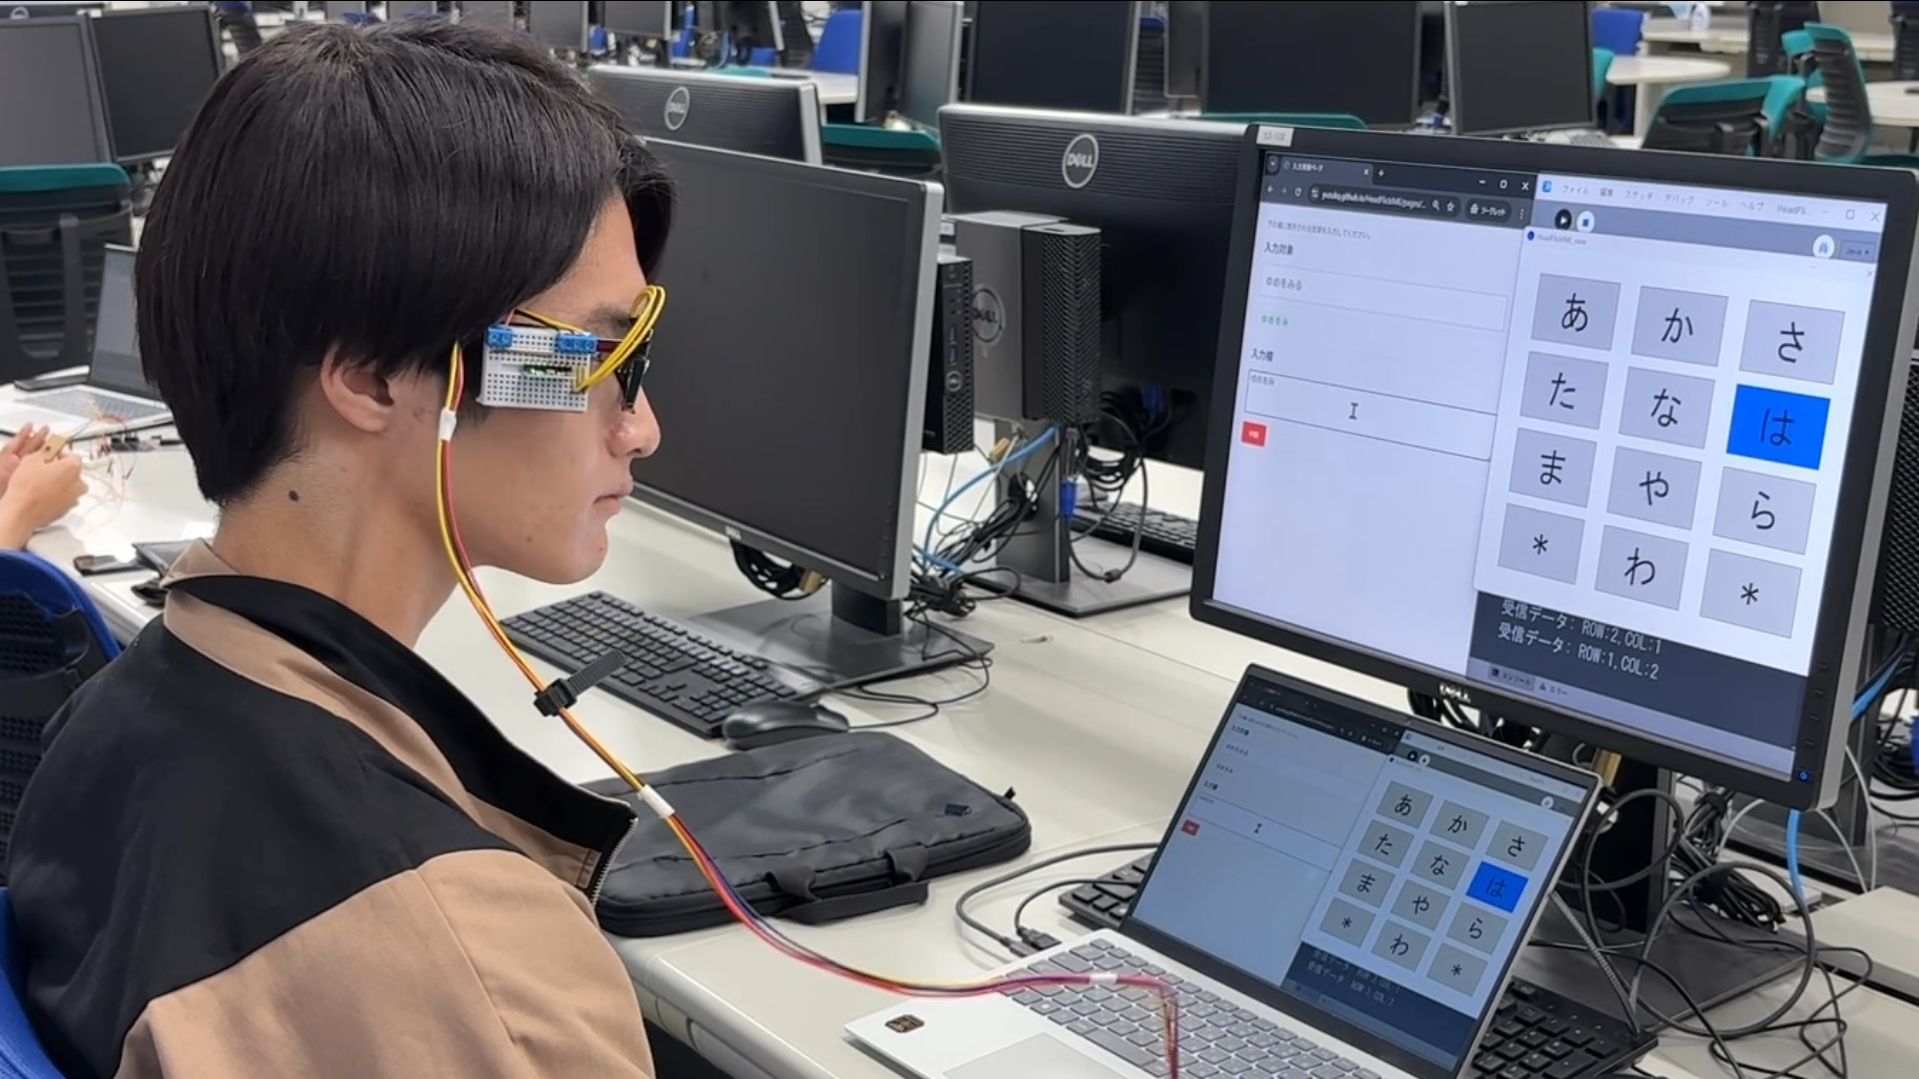
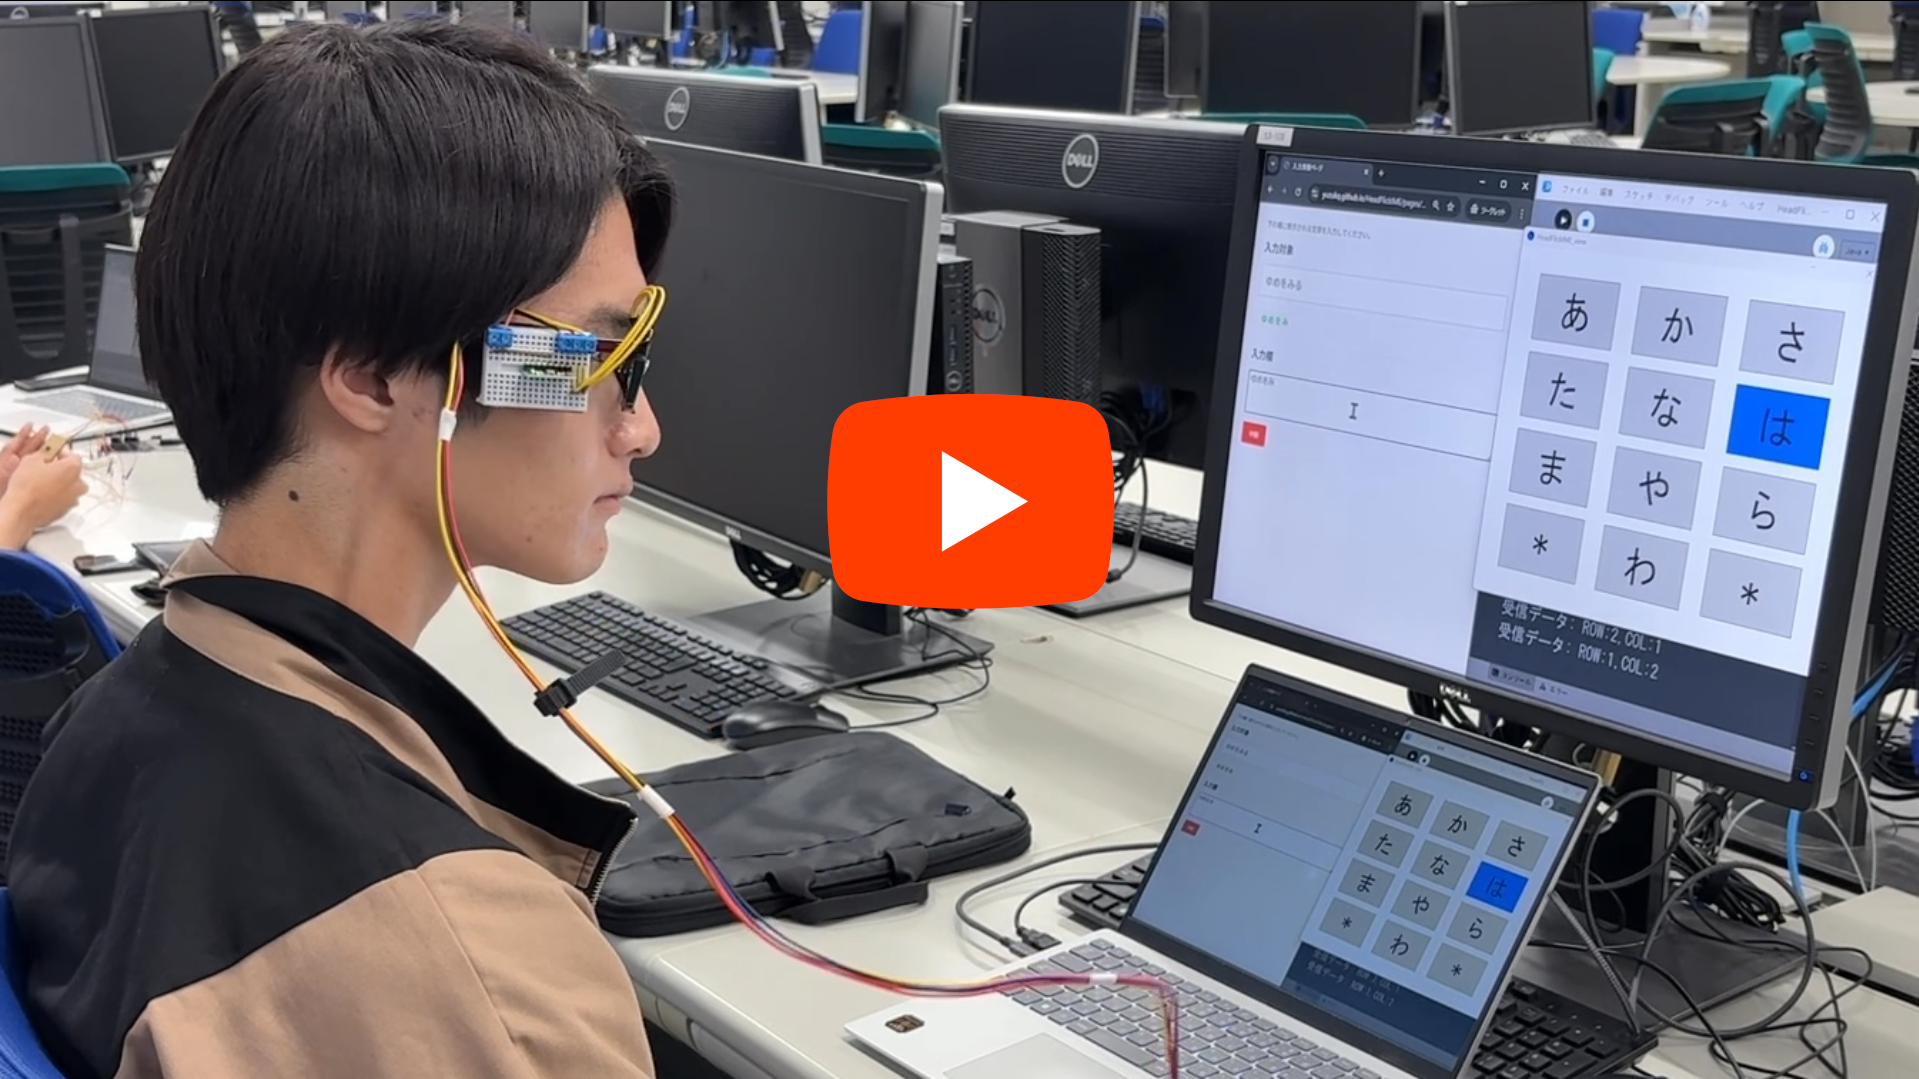
プレビュー動画の配置を変更．サムネイルを追加

Changed region(s): [[0.4304, 0.367, 0.5842, 0.5811]]

diff --git a/README.md b/README.md
@@ -8,10 +8,6 @@
 
 ![システム外観](experimental%20data/image/appearance.jpg)
 
-## 動作風景
-
-[YouTubeで動作風景を見る](https://youtu.be/X3LBFIodq7U)
-
 ## 特徴 (Features)
 
 * **低コスト・非接触・ハンズフリー**: 高価な外部カメラや複雑な画像解析を必要とせず、メガネに装着可能なフォトリフレクタと六軸加速度センサーのみで文字入力を実現します。
@@ -38,6 +34,10 @@
 2.  **母音選択レイヤーへの遷移**: 選択したい子音にポインターが合っている状態で、意図的に瞼を250ms以上閉じると、母音選択レイヤーへ切り替わります。
 3.  **母音の選択**: 母音選択レイヤーでも同様に頭部を動かし、目的の母音にポインターを合わせます。
 4.  **文字確定**: 瞼を開くことで、選択された子音と母音の組み合わせに対応する日本語の文字が確定され、PCに入力されます。
+
+## 動作風景
+
+[![動作風景デモ動画](experimental%20data/image/OperatingScene.png)](https://youtu.be/X3LBFIodq7U)
 
 ## 成果 (Results)
 
